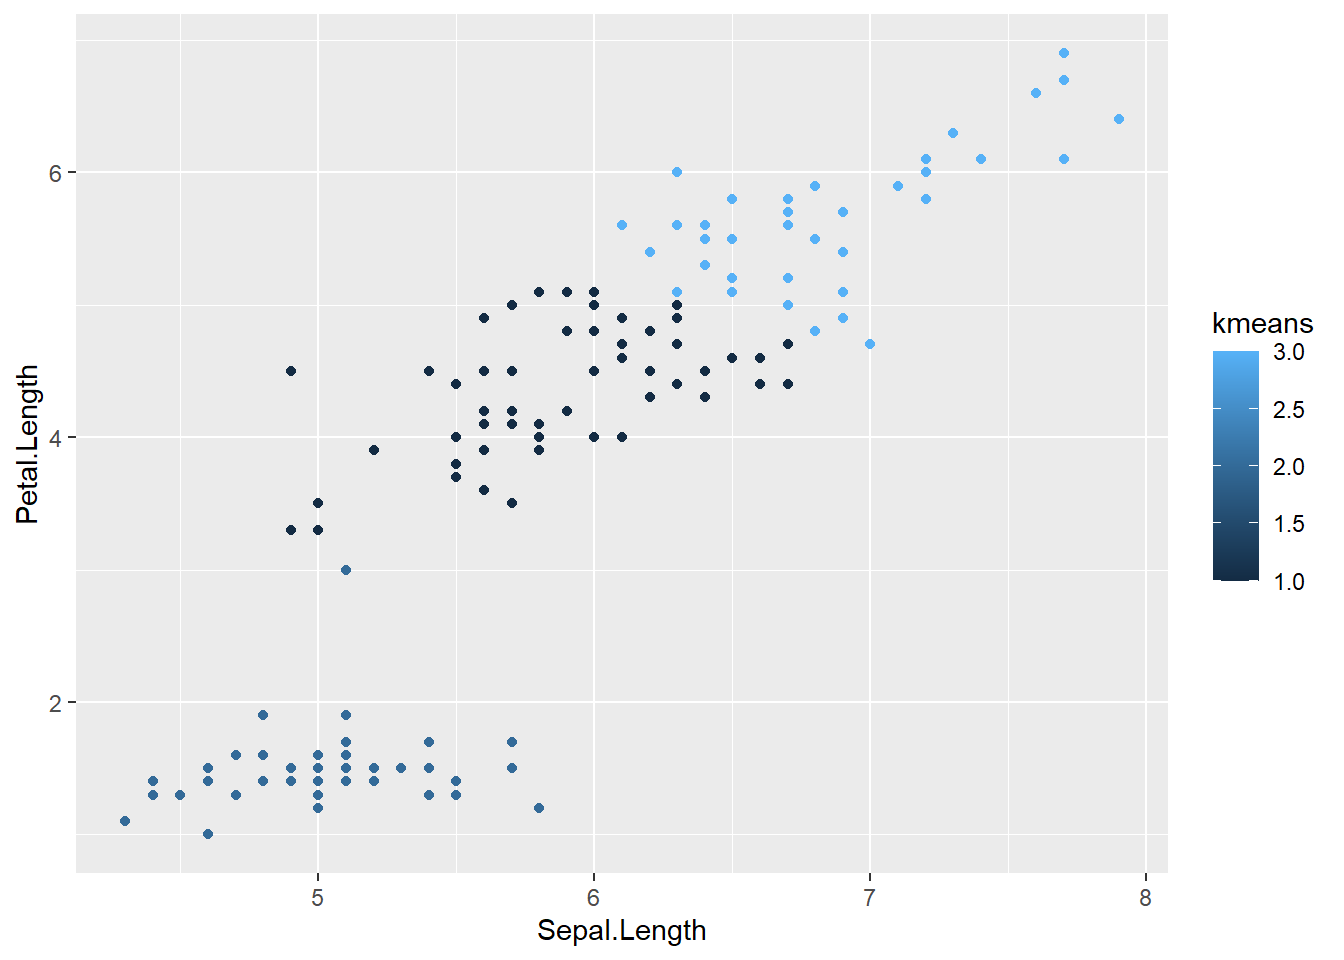
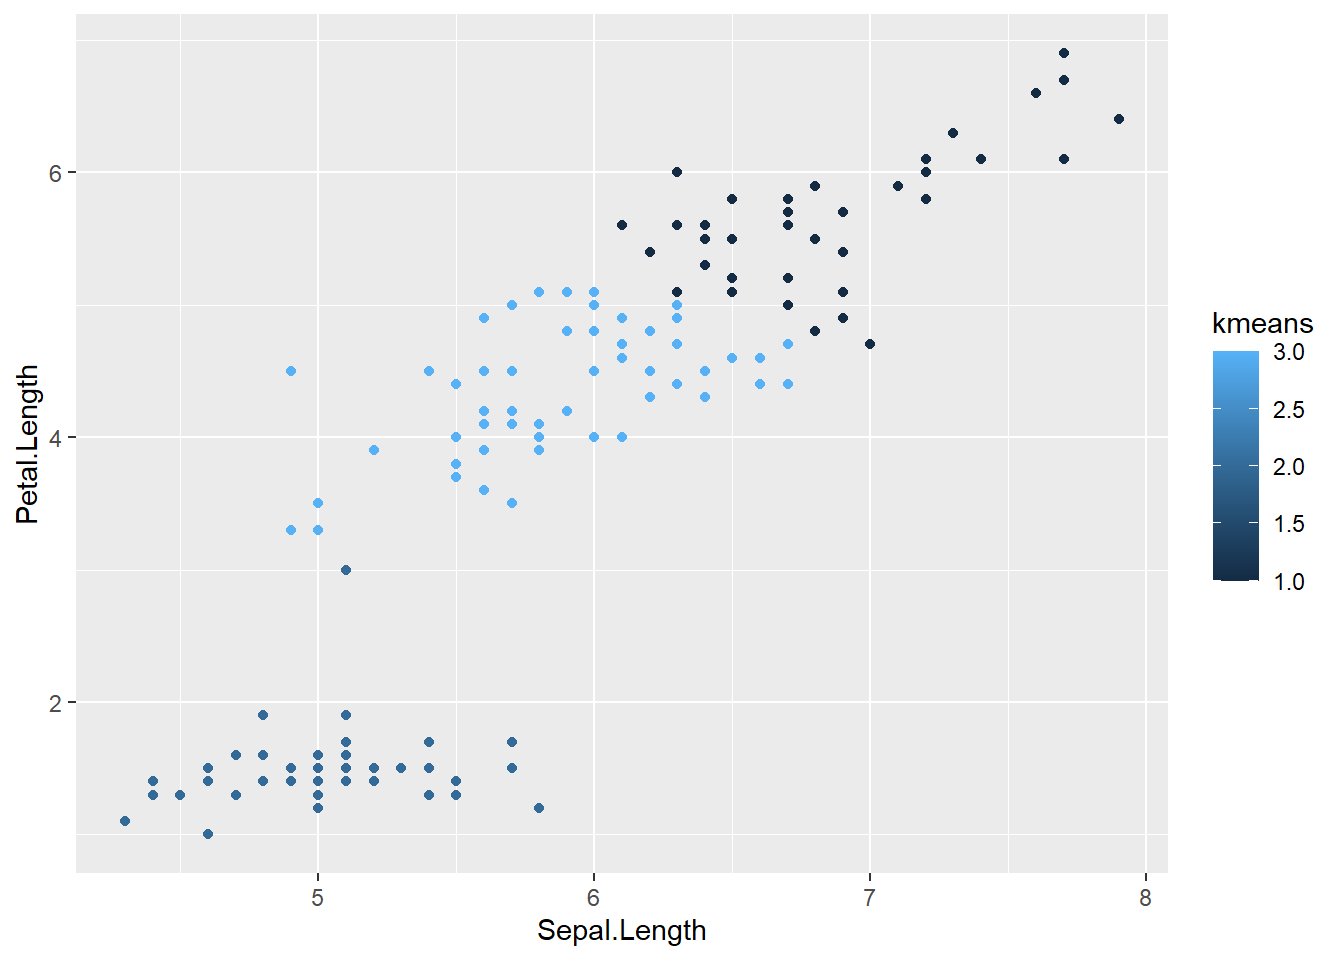
pca tweak

diff --git a/docs/r40-ml-unsupervised.html b/docs/r40-ml-unsupervised.html
@@ -303,6 +303,8 @@ Concept</a></li>
 id="toc-concept-walk-through">Concept Walk-through</a></li>
 <li><a href="#concept-illustration"
 id="toc-concept-illustration">Concept Illustration</a></li>
+<li><a href="#full-example-2" id="toc-full-example-2">Full
+example</a></li>
 </ul></li>
 </ul>
 </div>
@@ -379,23 +381,23 @@ kresult &lt;- kmeans(
 )
 
 print(kresult)</code></pre>
-<pre><code>## K-means clustering with 3 clusters of sizes 41, 58, 51
+<pre><code>## K-means clustering with 3 clusters of sizes 58, 41, 51
 ## 
 ## Cluster means:
 ##   Sepal.Length Petal.Length
-## 1     6.839024     5.678049
-## 2     5.874138     4.393103
+## 1     5.874138     4.393103
+## 2     6.839024     5.678049
 ## 3     5.007843     1.492157
 ## 
 ## Clustering vector:
 ##   [1] 3 3 3 3 3 3 3 3 3 3 3 3 3 3 3 3 3 3 3 3 3 3 3 3 3 3 3 3 3 3 3 3 3 3 3 3 3
-##  [38] 3 3 3 3 3 3 3 3 3 3 3 3 3 1 2 1 2 2 2 2 2 2 2 2 2 2 2 2 2 2 2 2 2 2 2 2 2
-##  [75] 2 2 1 1 2 2 2 2 2 2 2 2 2 2 2 2 2 2 2 2 2 2 2 2 3 2 1 2 1 1 1 1 2 1 1 1 1
-## [112] 1 1 2 2 1 1 1 1 2 1 2 1 2 1 1 2 2 1 1 1 1 1 1 1 1 1 1 2 1 1 1 2 1 1 1 2 1
-## [149] 1 2
+##  [38] 3 3 3 3 3 3 3 3 3 3 3 3 3 2 1 2 1 1 1 1 1 1 1 1 1 1 1 1 1 1 1 1 1 1 1 1 1
+##  [75] 1 1 2 2 1 1 1 1 1 1 1 1 1 1 1 1 1 1 1 1 1 1 1 1 3 1 2 1 2 2 2 2 1 2 2 2 2
+## [112] 2 2 1 1 2 2 2 2 1 2 1 2 1 2 2 1 1 2 2 2 2 2 2 2 2 2 2 1 2 2 2 1 2 2 2 1 2
+## [149] 2 1
 ## 
 ## Within cluster sum of squares by cluster:
-## [1] 20.407805 23.508448  9.893725
+## [1] 23.508448 20.407805  9.893725
 ##  (between_SS / total_SS =  90.5 %)
 ## 
 ## Available components:
@@ -765,6 +767,48 @@ ggplot( data = pca_tibble_long ) +
   facet_wrap( ~ PCItem, nrow = 1)  +
   scale_color_gradient(low = &#39;red&#39;, high = &#39;green&#39;)</code></pre>
 <p><img src="r40-ml-unsupervised_files/figure-html/unnamed-chunk-13-1.png" width="672" /></p>
+</div>
+<div id="full-example-2" class="section level2">
+<h2>Full example</h2>
+<p>In the full example, we generally want to scale the data. This is
+needed, as if we have radically different numerical ranges, the biggest
+numbers will have more influence on the model. Scaling all of our inputs
+according to mean/sd will give them equal impact on the outcome.</p>
+<pre class="r"><code>library(tidyverse)
+
+# Load data into a tibble
+data(iris)
+t_iris &lt;- iris
+t_iris_numbers &lt;- select(iris, -Species)
+
+# Give prcomp numeric values in the iris tibble.
+# scale: adjust the data so that sd = 1?
+# center: should we center data around 0?
+iris_pca_results &lt;- prcomp(t_iris_numbers,
+                           scale = TRUE,
+                           center = TRUE)
+
+# Plot our results
+biplot(iris_pca_results)</code></pre>
+<p><img src="r40-ml-unsupervised_files/figure-html/unnamed-chunk-14-1.png" width="672" /></p>
+<pre class="r"><code># Show new components
+summary(iris_pca_results)</code></pre>
+<pre><code>## Importance of components:
+##                           PC1    PC2     PC3     PC4
+## Standard deviation     1.7084 0.9560 0.38309 0.14393
+## Proportion of Variance 0.7296 0.2285 0.03669 0.00518
+## Cumulative Proportion  0.7296 0.9581 0.99482 1.00000</code></pre>
+<pre class="r"><code># Show how they are generated from our original data
+print(iris_pca_results)</code></pre>
+<pre><code>## Standard deviations (1, .., p=4):
+## [1] 1.7083611 0.9560494 0.3830886 0.1439265
+## 
+## Rotation (n x k) = (4 x 4):
+##                     PC1         PC2        PC3        PC4
+## Sepal.Length  0.5210659 -0.37741762  0.7195664  0.2612863
+## Sepal.Width  -0.2693474 -0.92329566 -0.2443818 -0.1235096
+## Petal.Length  0.5804131 -0.02449161 -0.1421264 -0.8014492
+## Petal.Width   0.5648565 -0.06694199 -0.6342727  0.5235971</code></pre>
 </div>
 </div>
 
